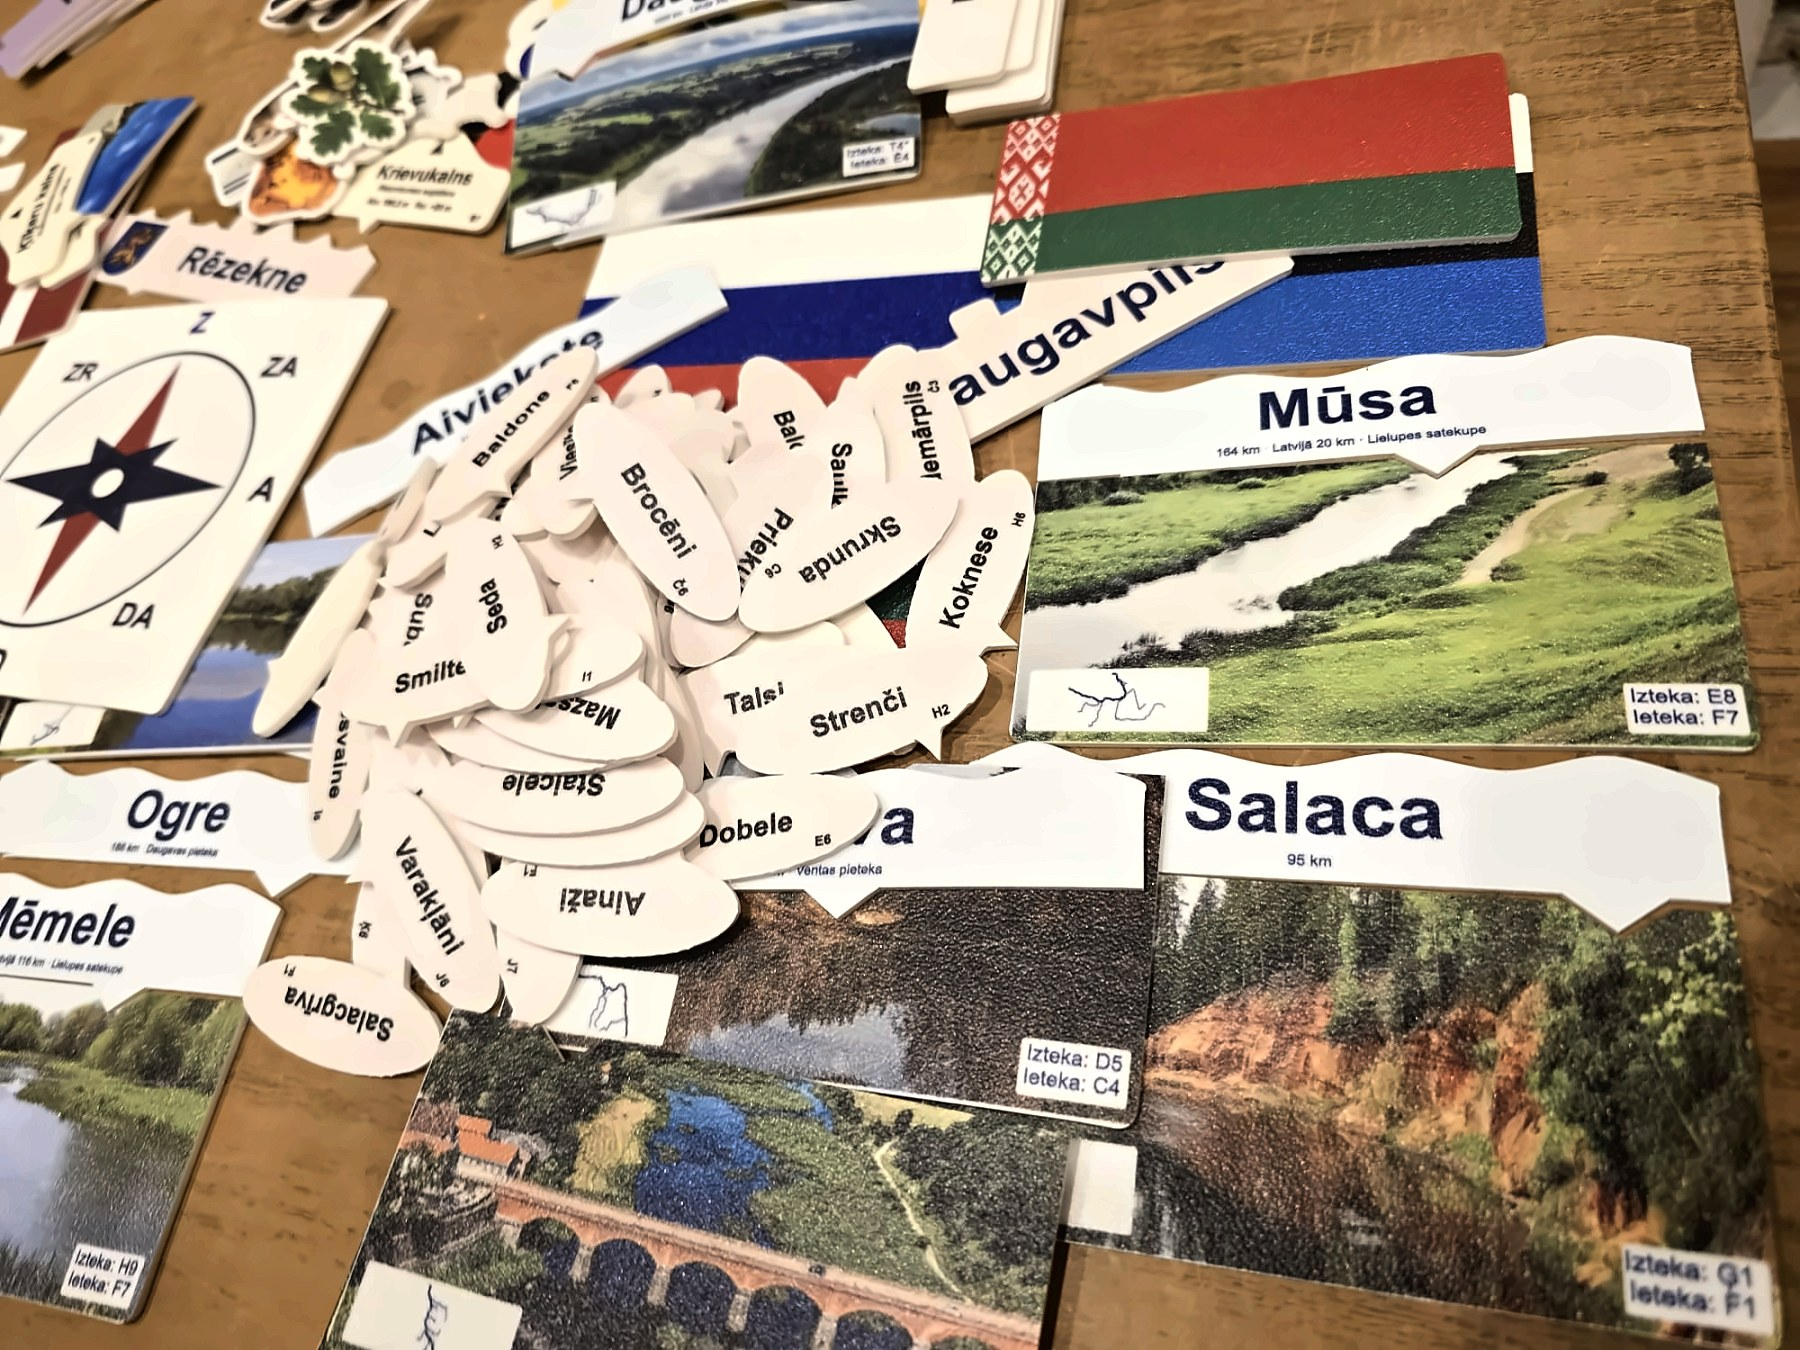
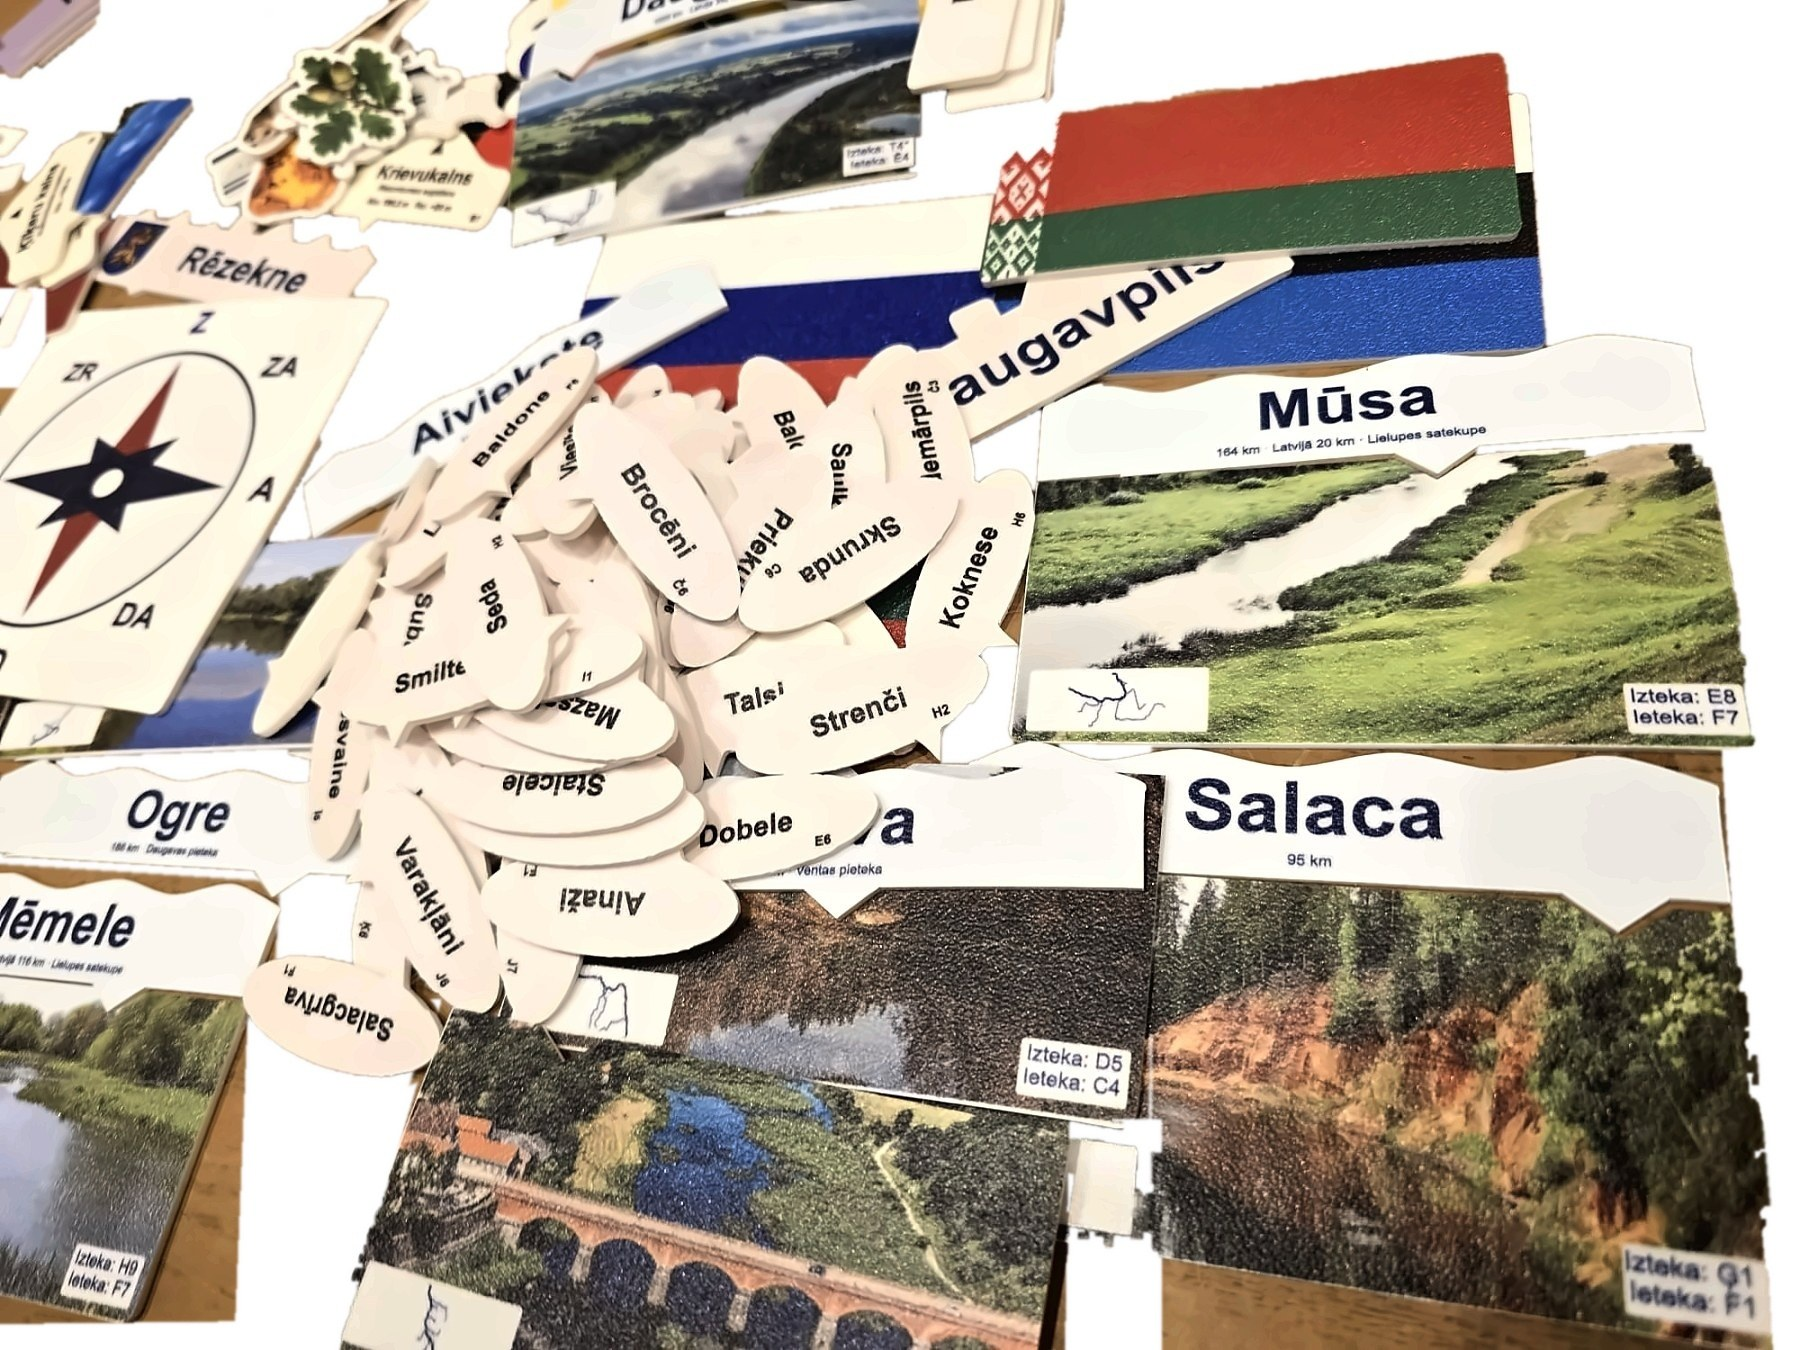
Titulbildes teksts, Par materiālu; balts fons kartīšu kaudzes bildei
Claude-Session: https://claude.ai/code/session_015bKgZJWkHRUcjHv33818tm

diff --git a/index.html b/index.html
@@ -422,7 +422,7 @@ html,body,button,input,select,textarea,h1,h2,h3,h4,p,a,li,span,small,b,strong,bl
   <div class="wrap">
     <a class="brand" href="#sakums"><b>„Latvijas dārgumi”</b><small>latvijasdargumi.lv</small></a>
     <nav class="nav" aria-label="Galvenā navigācija">
-      <a href="#par">Par spēli</a>
+      <a href="#par">Par materiālu</a>
       <a href="#instrukcija">Instrukcija</a>
       <a href="#vecumposmi">Vecumposmi</a>
       <a href="#kartites">Uzdevumi</a>
@@ -439,9 +439,8 @@ html,body,button,input,select,textarea,h1,h2,h3,h4,p,a,li,span,small,b,strong,bl
   <div class="hero-stage">
     <img class="hero-bg" src="img/karte.jpg" alt="„Latvijas dārgumu” grīdas karte ar izliktām kartītēm, žetoniem, karogiem un ceļotāju figūrām" width="2000" height="1263">
     <div class="hero-title">
-      <div class="eyebrow">Mācību līdzeklis skolām un pirmsskolām</div>
       <h1>„Latvijas dārgumi”</h1>
-      <p class="sub">Karte, kas kļūst par piedzīvojumu.<br><span class="one-line">Mazgājams, nodilumizturīgs milzu grīdas paklājs 1,80&nbsp;×&nbsp;2,85&nbsp;m.</span></p>
+      <p class="sub">Mācību līdzeklis, kas kļūst par piedzīvojumu.<br><span class="one-line">Mazgājams, nodilumizturīgs milzu grīdas paklājs 1,80&nbsp;×&nbsp;2,85&nbsp;m.</span></p>
       <div class="btns">
         <a class="btn btn-primary" href="#pasutit">Pasūtīt komplektu</a>
         <a class="btn btn-ghost" href="#instrukcija">Kā darboties</a>
